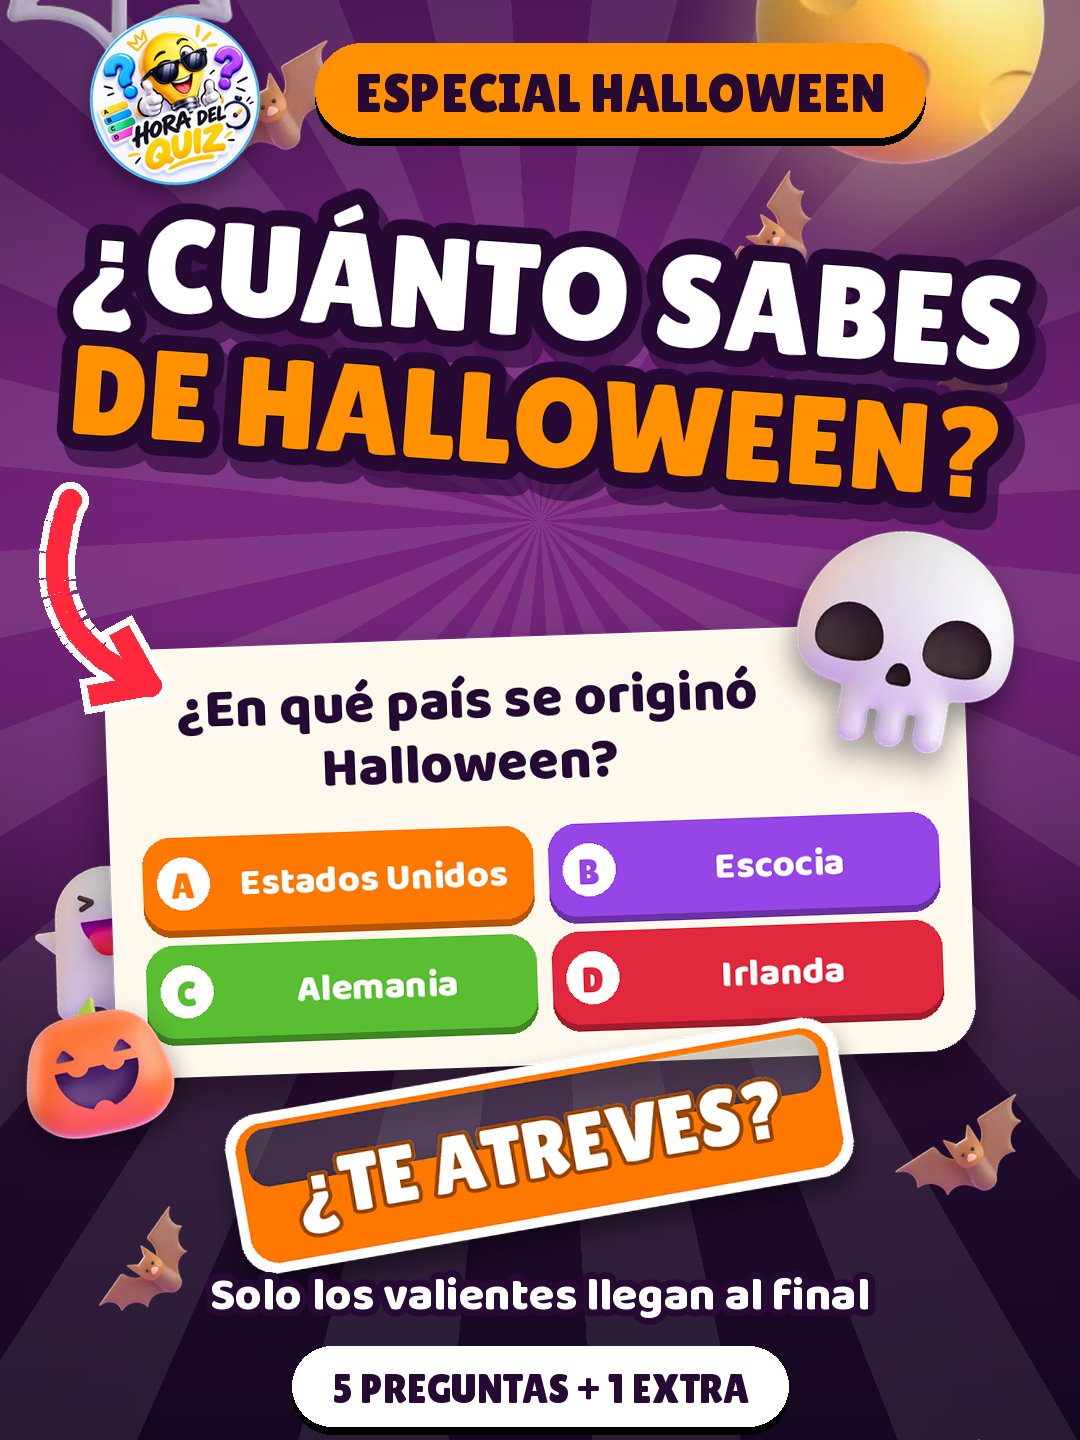
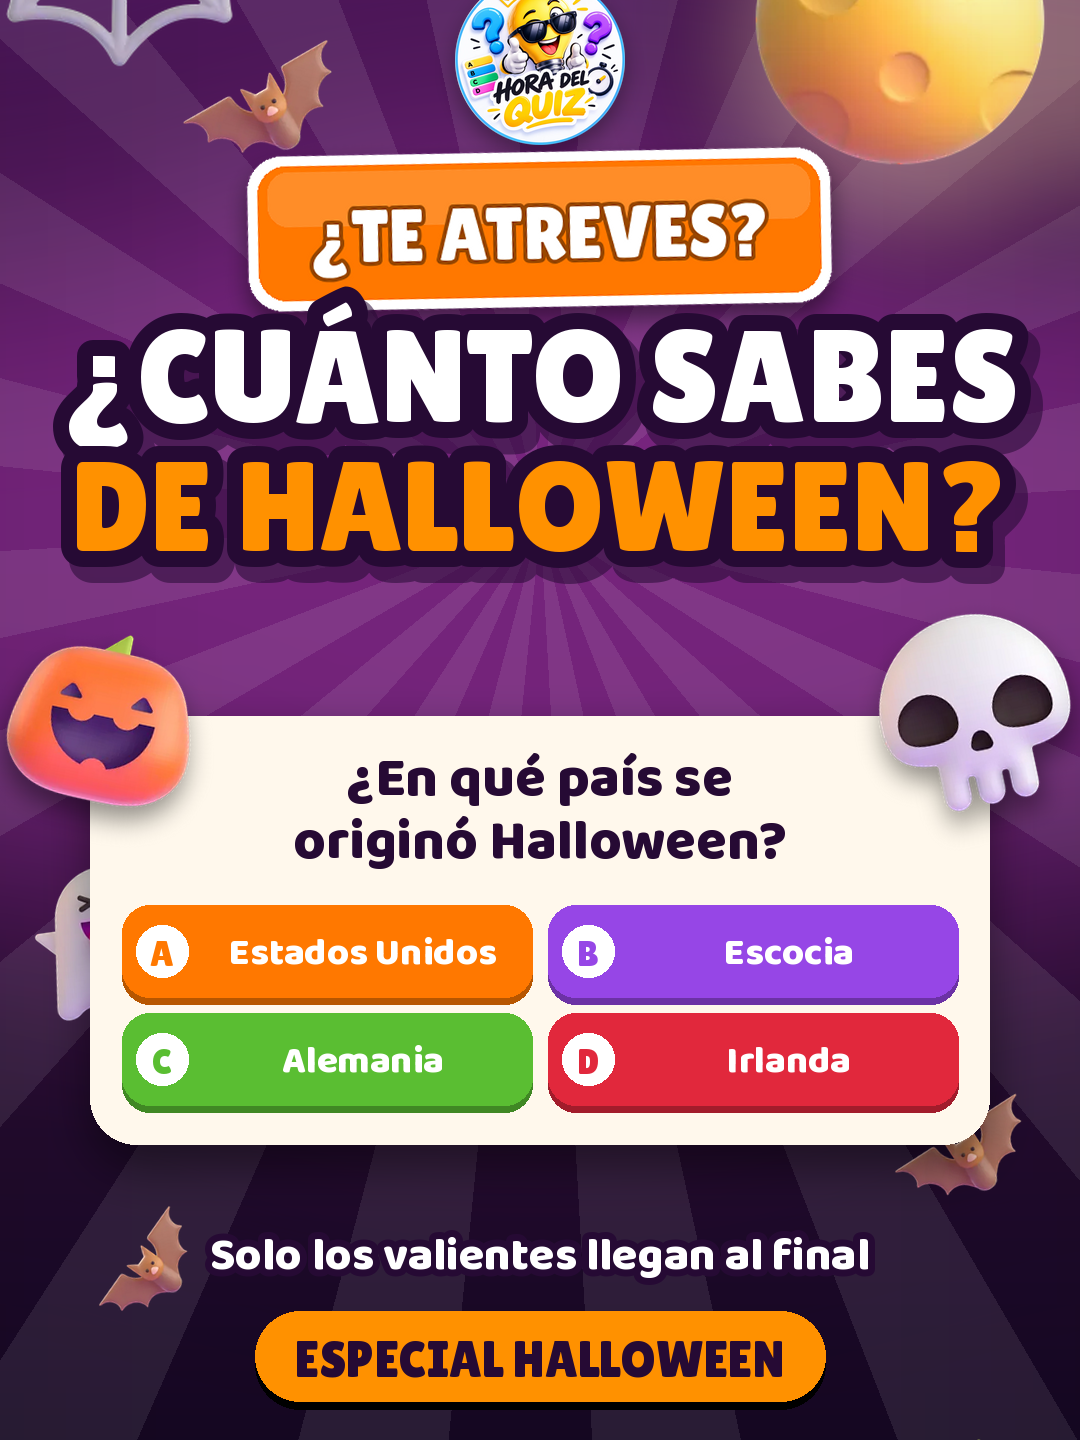
Portadas: cada una con composición distinta y sin '5 preguntas + 1 extra'
Claude-Session: https://claude.ai/code/session_01FgZK37A5yR6qScbYrERJem

diff --git a/quiz-video/portada.py b/quiz-video/portada.py
@@ -41,8 +41,9 @@ PORTADAS = {
         "tam": 140,
         "pregunta": 0,
         "emoji": "mente_explota", "emoji2": "cerebro",
-        "pegatina": "¿LLEGAS AL 6/6?",
-        "sub": "La 1ª ya la falla casi todo el mundo",
+        "estilo": "sello",
+        "sello": ("¿LLEGAS", "AL 6/6?"),
+        "sub": "La 1ª ya la falla|casi todo el mundo",
     },
     "hora_del_quiz_03": {
         "paleta": lambda: themes.paleta_halloween(themes.elegir_tono("hora_del_quiz_03")),
@@ -50,6 +51,7 @@ PORTADAS = {
         "titulo": [("¿CUÁNTO SABES", "w"), ("DE HALLOWEEN?", "a")],
         "pregunta": 0,
         "emoji": "calavera", "emoji2": "calabaza",
+        "estilo": "cartel",
         "pegatina": "¿TE ATREVES?",
         "sub": "Solo los valientes llegan al final",
     },
@@ -170,11 +172,12 @@ def titular(lineas, th, ang=-4, tam=None):
     return layer.rotate(ang, Image.BICUBIC, expand=True)
 
 
-def tarjeta(q, th, ancho=880):
+def tarjeta(q, th, ancho=880, hueco="der"):
     """Tarjeta con una pregunta real del vídeo y sus 4 opciones (2x2), sin marcar ninguna."""
     pad = 32
     tmp = ImageDraw.Draw(Image.new("RGBA", (1, 1)))
-    qw = ancho - 2 * pad - 175  # hueco a la derecha para el emoji
+    hl, hr = {"der": (0, 175), "izq": (175, 0), "ambos": (130, 130)}[hueco]  # hueco para los emojis
+    qw = ancho - 2 * pad - hl - hr
     fq, lq, lhq = fit(tmp, q["pregunta"], qw, 130, 56, minimum=38)
     alto_q = int(len(lq) * lhq) + 2 * pad
     opt_h, gap = 92, 16
@@ -184,7 +187,7 @@ def tarjeta(q, th, ancho=880):
     d.rounded_rectangle((0, 0, ancho - 1, alto - 1), 46, fill=th["card"])
     y = pad
     for line in lq:
-        d.text((pad + qw / 2 + 20, y + lhq / 2), line, font=fq, fill=th["text_dark"], anchor="mm")
+        d.text((pad + hl + qw / 2 + (20 if hueco == "der" else -20 if hueco == "izq" else 0), y + lhq / 2), line, font=fq, fill=th["text_dark"], anchor="mm")
         y += lhq
     ow = (ancho - 2 * pad - gap) / 2
     for i, o in enumerate(q["opciones"]):
@@ -218,9 +221,35 @@ def pegatina(texto, bg, fg, ang=6, size=86):
     d = ImageDraw.Draw(st)
     d.rounded_rectangle((4, 4, pw + 14, ph + 14), 34, fill=(255, 255, 255))
     d.rounded_rectangle((14, 14, pw + 4, ph + 4), 28, fill=bg)
-    d.rounded_rectangle((24, 20, pw - 6, 14 + ph * 0.42), 20, fill=(255, 255, 255, 40))
+    hl = Image.new("RGBA", st.size, (0, 0, 0, 0))
+    ImageDraw.Draw(hl).rounded_rectangle((24, 20, pw - 6, 14 + ph * 0.42), 20, fill=(255, 255, 255, 40))
+    st.alpha_composite(hl)
     d.text(((pw + 18) / 2, (ph + 18) / 2 + 4), texto, font=f, fill=fg, anchor="mm",
            stroke_width=4, stroke_fill=tuple(int(c * 0.6) for c in bg))
+    return con_sombra(st, off=14, blur=12, alpha=120).rotate(ang, Image.BICUBIC, expand=True)
+
+
+def sello(arriba, abajo, bg, fg, r=170, ang=12):
+    """Sello en forma de estallido con dos líneas de texto."""
+    size = 2 * r + 80
+    st = Image.new("RGBA", (size, size), (0, 0, 0, 0))
+    d = ImageDraw.Draw(st)
+    c = size / 2
+    for rad, col in [(r + 16, (255, 255, 255)), (r, bg)]:
+        pts = []
+        for k in range(36):
+            rr = rad if k % 2 == 0 else rad * 0.86
+            a = k * math.pi / 18
+            pts.append((c + rr * math.cos(a), c + rr * math.sin(a)))
+        d.polygon(pts, fill=col)
+    hl = Image.new("RGBA", st.size, (0, 0, 0, 0))
+    ImageDraw.Draw(hl).ellipse((c - r * 0.7, c - r * 0.78, c + r * 0.7, c - r * 0.1), fill=(255, 255, 255, 38))
+    st.alpha_composite(hl)
+    sombra = tuple(int(v * 0.55) for v in bg)
+    d.text((c, c - r * 0.27), arriba, font=tfont(int(r * 0.27)), fill=(255, 255, 255), anchor="mm",
+           stroke_width=4, stroke_fill=sombra)
+    d.text((c, c + r * 0.17), abajo, font=tfont(int(r * 0.43)), fill=fg, anchor="mm",
+           stroke_width=6, stroke_fill=sombra)
     return con_sombra(st, off=14, blur=12, alpha=120).rotate(ang, Image.BICUBIC, expand=True)
 
 
@@ -265,47 +294,82 @@ def crear(quiz_path, out_dir):
     E = os.path.join(A, "portada")
     dark = th["text_dark"]
 
-    # cabecera: logo + etiqueta
-    logo = con_sombra(img(os.path.join(A, "logo.png"), 170), off=10, blur=10, alpha=90)
-    pegar(base, logo, 175, 340, 6)
-    pill(base, 620, 330, cfg["arriba"], 54, th["accent"], dark)
-
-    # titular gigante
-    t = titular(cfg["titulo"], th, tam=cfg.get("tam"))
-    pegar(base, t, 540, 420 + t.height / 2 - 40)
-    y_tit = 420 + t.height - 40
-
-    # tarjeta con pregunta real (sin respuesta marcada), un poco girada
-    card = tarjeta(quiz["preguntas"][cfg["pregunta"]], th, 860)
-    cy_card = y_tit + card.height / 2 - 60
-    pegar(base, card, 540, cy_card, 2)
-    top_card = cy_card - card.height / 2 + 40  # +40: margen de la sombra
-
-    # emoji 3D gigante en la esquina (hueco reservado en la tarjeta) + secundario
+    q = quiz["preguntas"][cfg["pregunta"]]
     e1 = con_sombra(img(os.path.join(E, cfg["emoji"] + ".png"), 250), off=16, blur=14)
-    pegar(base, e1, 905, top_card + 30, -10)
     e2 = con_sombra(img(os.path.join(E, cfg["emoji2"] + ".png"), 170), off=12, blur=12)
-    pegar(base, e2, 95, cy_card + card.height / 2 - 70, 12)
-
-    # flecha roja señalando la pregunta
-    flecha(base, (70, top_card - 110), (20, top_card + 20), (150, top_card + 75))
-
-    # pegatina gancho
-    y_peg = cy_card + card.height / 2 + 15
+    logo = con_sombra(img(os.path.join(A, "logo.png"), 170), off=10, blur=10, alpha=90)
     peg_col = (230, 30, 50) if not hall else (255, 120, 0)
-    pegar(base, pegatina(cfg["pegatina"], peg_col, (255, 255, 255), size=80), 540, y_peg, 4)
-
-    # subtítulo debajo de la pegatina + usuario abajo del todo
     d = ImageDraw.Draw(base)
-    y_sub = min(y_peg + 150, 1640)
-    d.text((540, y_sub), cfg["sub"], font=font(46), fill=(255, 255, 255), anchor="mm",
-           stroke_width=7, stroke_fill=dark)
-    pill(base, 540, min(y_sub + 90, 1665), "5 PREGUNTAS + 1 EXTRA", 40, (255, 255, 255), dark)
+    estilo = cfg.get("estilo", "clasica")
+
+    def subtitulo(y):
+        d.text((540, y), cfg["sub"], font=font(46), fill=(255, 255, 255), anchor="mm",
+               stroke_width=7, stroke_fill=dark)
+
+    if estilo == "clasica":
+        # logo izq + etiqueta, titular inclinado a la izquierda, flecha desde la izquierda,
+        # emoji arriba a la derecha y pegatina alargada debajo
+        pegar(base, logo, 175, 340, 6)
+        pill(base, 620, 330, cfg["arriba"], 54, th["accent"], dark)
+        t = titular(cfg["titulo"], th, ang=-4, tam=cfg.get("tam"))
+        pegar(base, t, 540, 420 + t.height / 2 - 40)
+        y_tit = 420 + t.height - 40
+        card = tarjeta(q, th, 860, "der")
+        cy = y_tit + card.height / 2 - 60
+        pegar(base, card, 540, cy, 2)
+        top = cy - card.height / 2 + 40
+        pegar(base, e1, 905, top + 30, -10)
+        pegar(base, e2, 95, cy + card.height / 2 - 70, 12)
+        flecha(base, (70, top - 110), (20, top + 20), (150, top + 75))
+        y_peg = cy + card.height / 2 + 15
+        pegar(base, pegatina(cfg["pegatina"], peg_col, (255, 255, 255), size=80), 540, y_peg, 4)
+        subtitulo(y_peg + 150)
+
+    elif estilo == "sello":
+        # espejo: etiqueta izq + logo dcha, titular inclinado a la derecha, emoji a la izquierda,
+        # flecha desde la derecha y sello redondo sobre la esquina de la tarjeta
+        pill(base, 450, 330, cfg["arriba"], 54, th["accent"], dark)
+        pegar(base, logo, 900, 340, -6)
+        t = titular(cfg["titulo"], th, ang=4, tam=cfg.get("tam"))
+        pegar(base, t, 540, 420 + t.height / 2 - 40)
+        y_tit = 420 + t.height - 40
+        card = tarjeta(q, th, 860, "izq")
+        cy = y_tit + card.height / 2 - 60
+        pegar(base, card, 540, cy, -2.5)
+        top = cy - card.height / 2 + 40
+        pegar(base, e1, 170, top + 30, 10)
+        flecha(base, (1010, top - 110), (1065, top + 20), (935, top + 70))
+        bot = cy + card.height / 2 - 40
+        a1, a2 = cfg["sello"]
+        pegar(base, sello(a1, a2, peg_col, th["accent"], r=180, ang=10), 830, bot + 130, 10)
+        pegar(base, e2, 150, bot + 320, -12)
+        for i, linea in enumerate(cfg["sub"].split("|")):
+            d.text((360, bot + 150 + i * 62), linea, font=font(50), fill=(255, 255, 255), anchor="mm",
+                   stroke_width=7, stroke_fill=dark)
+
+    else:  # "cartel": todo centrado y recto, pegatina arriba, emojis a ambos lados de la pregunta
+        pegar(base, logo, 540, 300, 0)
+        pegar(base, pegatina(cfg["pegatina"], peg_col, (255, 255, 255), size=74), 540, 470, -5)
+        t = titular(cfg["titulo"], th, ang=0, tam=cfg.get("tam"))
+        pegar(base, t, 540, 540 + t.height / 2 - 30)
+        y_tit = 540 + t.height - 30
+        card = tarjeta(q, th, 900, "ambos")
+        cy = y_tit + card.height / 2 - 20
+        pegar(base, card, 540, cy, 0)
+        top = cy - card.height / 2 + 40
+        pegar(base, con_sombra(img(os.path.join(E, cfg["emoji2"] + ".png"), 210), off=14, blur=12),
+              105, top + 20, -12)
+        pegar(base, con_sombra(img(os.path.join(E, cfg["emoji"] + ".png"), 220), off=14, blur=12),
+              975, top + 20, 12)
+        bot = cy + card.height / 2 - 40
+        subtitulo(bot + 85)
+        pill(base, 540, bot + 185, cfg["arriba"], 50, th["accent"], dark)
+
+    # usuario abajo del todo
     fu = font(44)
     w = d.textlength(USUARIO, font=fu)
     d.rounded_rectangle((540 - w / 2 - 34, 1735, 540 + w / 2 + 34, 1805), 35, fill=(0, 0, 0, 120))
     d.text((540, 1772), USUARIO, font=fu, fill=(255, 255, 255), anchor="mm")
-    print(video, "pegatina y =", int(y_peg), "sub y =", int(y_sub))
 
     os.makedirs(out_dir, exist_ok=True)
     rgb = base.convert("RGB")

diff --git a/quiz-video/CLAUDE.md b/quiz-video/CLAUDE.md
@@ -158,3 +158,6 @@ diccionario `PORTADAS` de `portada.py` (añade una entrada por vídeo nuevo): et
 titular gigante (línea "a" = color de acento), pregunta de muestra (índice), 2 emojis 3D de
 `assets/portada/`, pegatina gancho y subtítulo. La tarjeta NUNCA marca la respuesta correcta; lo
 importante queda en la franja central 3:4. Usa la misma paleta que el vídeo (registro de tonos).
+Sin "5 preguntas + 1 extra". Cada portada debe verse DISTINTA con el mismo estilo: clave `estilo` =
+`clasica` (pegatina alargada debajo, flecha izq.), `sello` (espejo, sello redondo, flecha dcha.) o
+`cartel` (centrado y recto, pegatina arriba, emojis a ambos lados); ve alternándolos.
